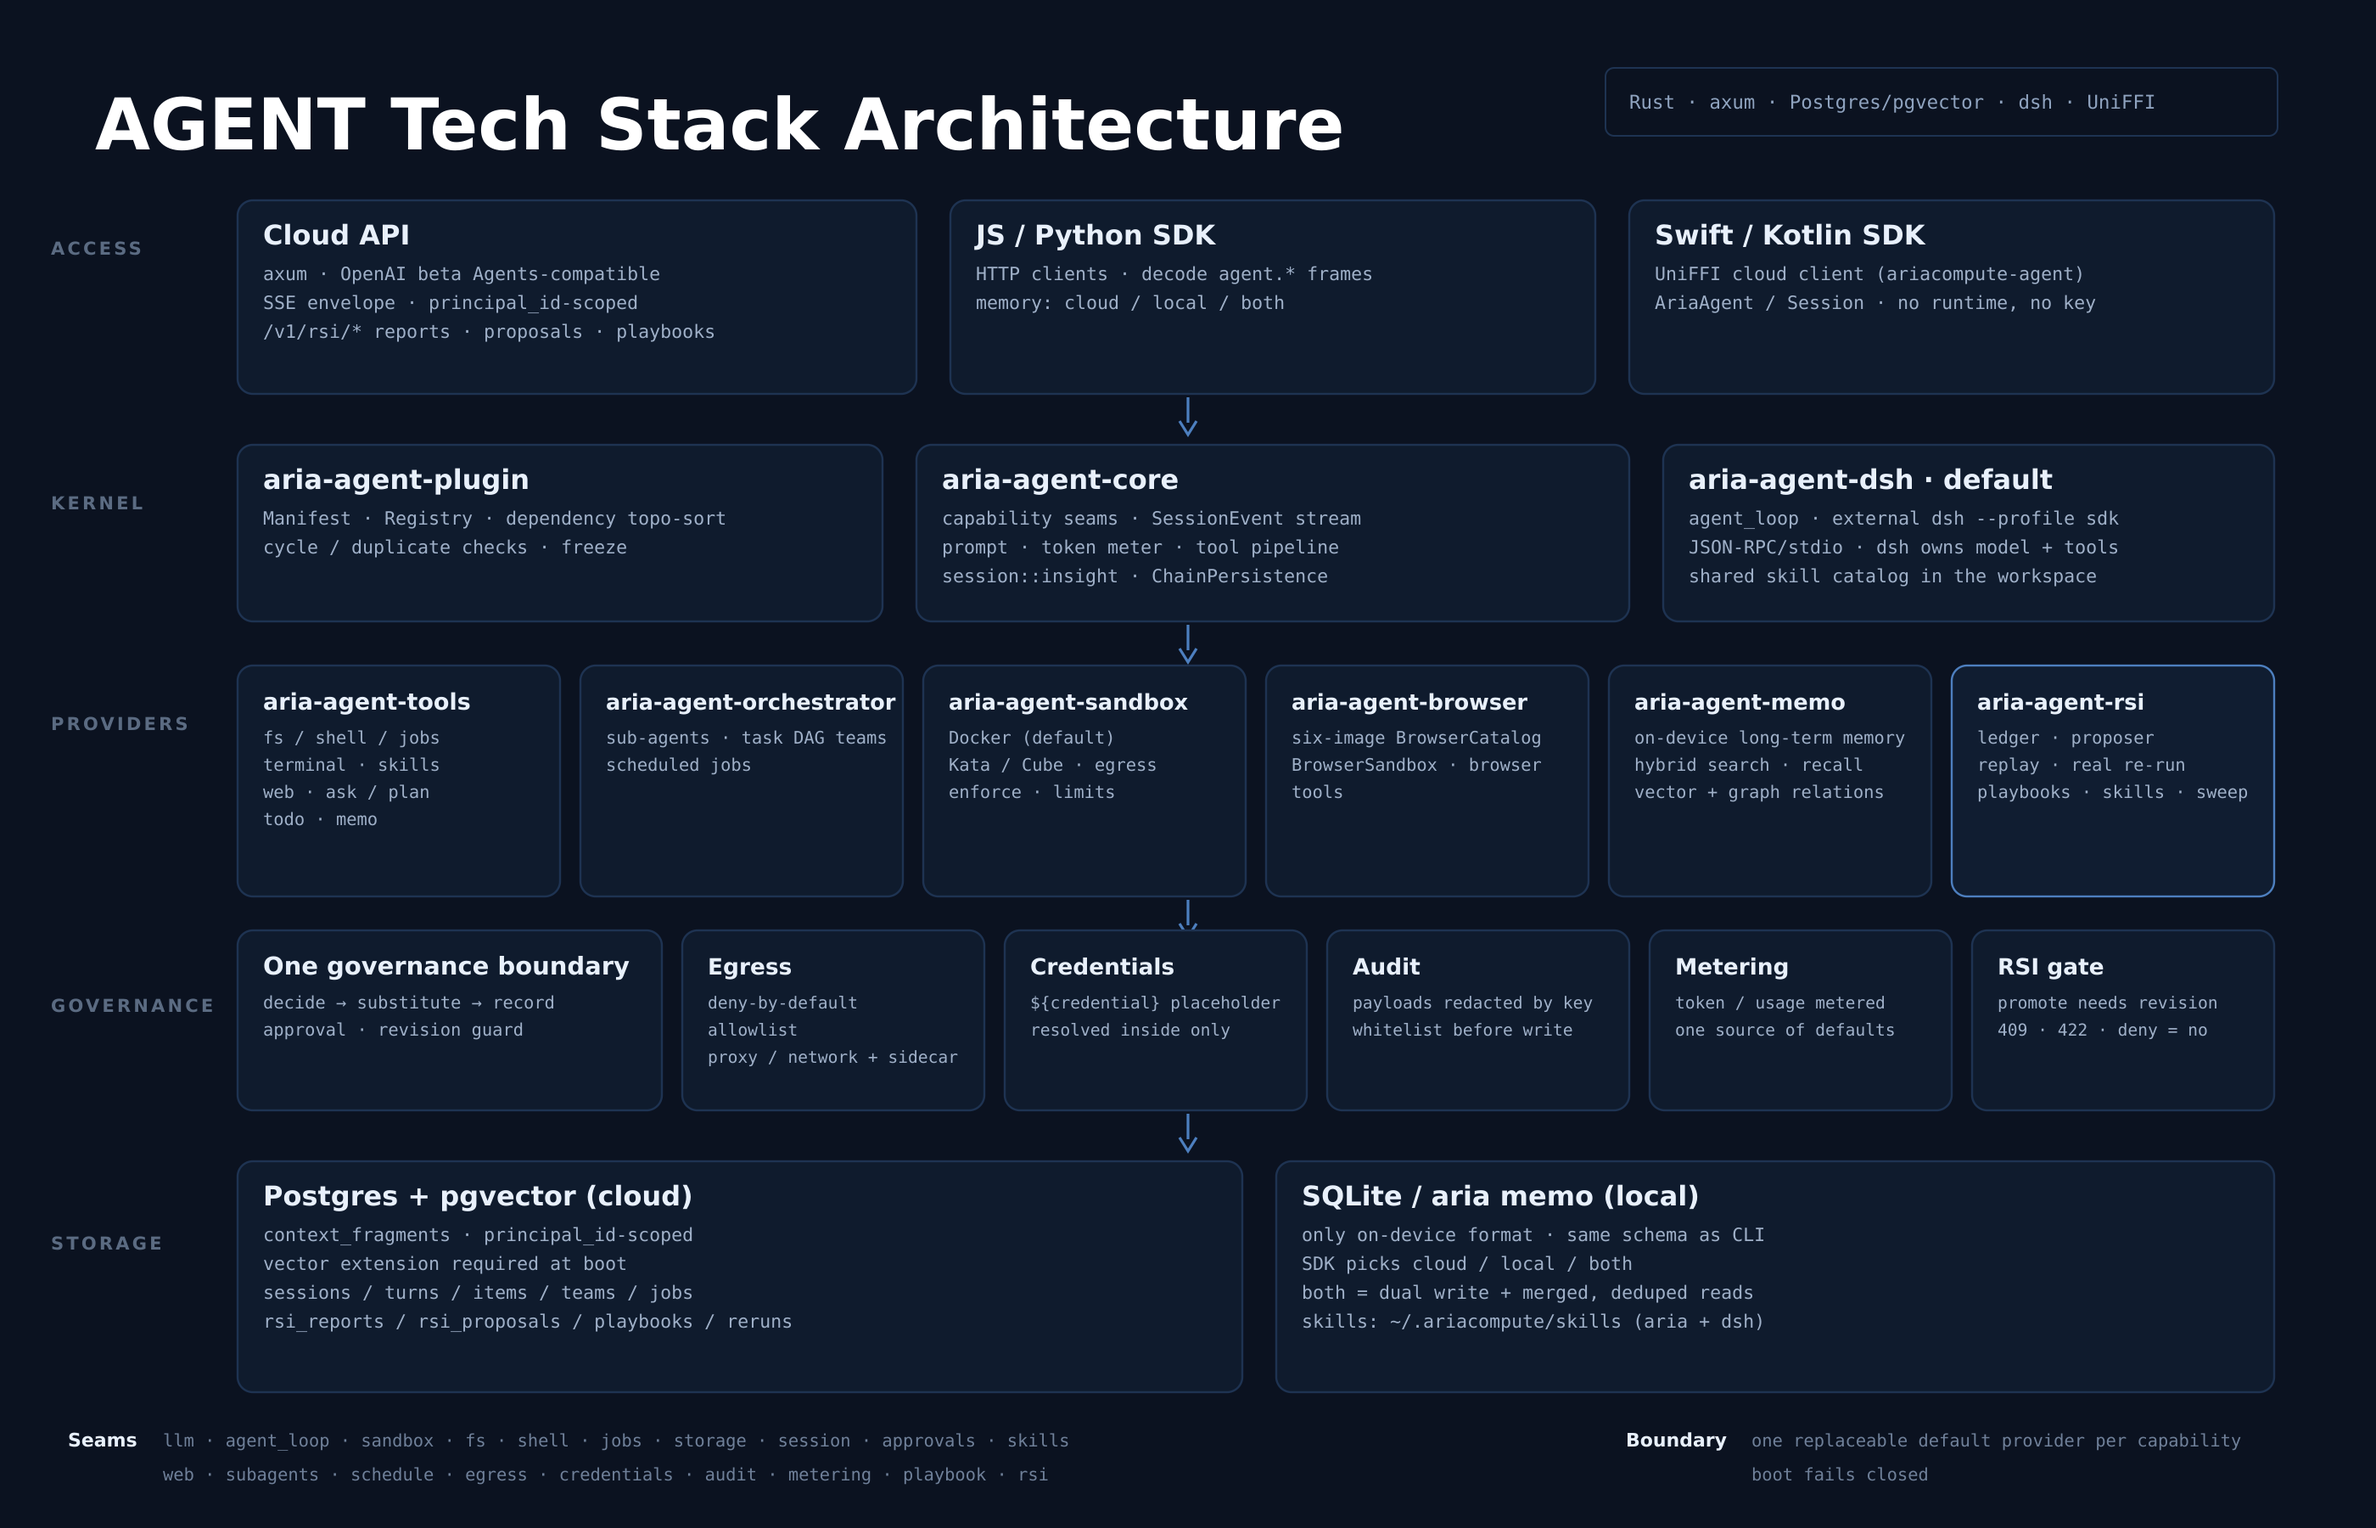
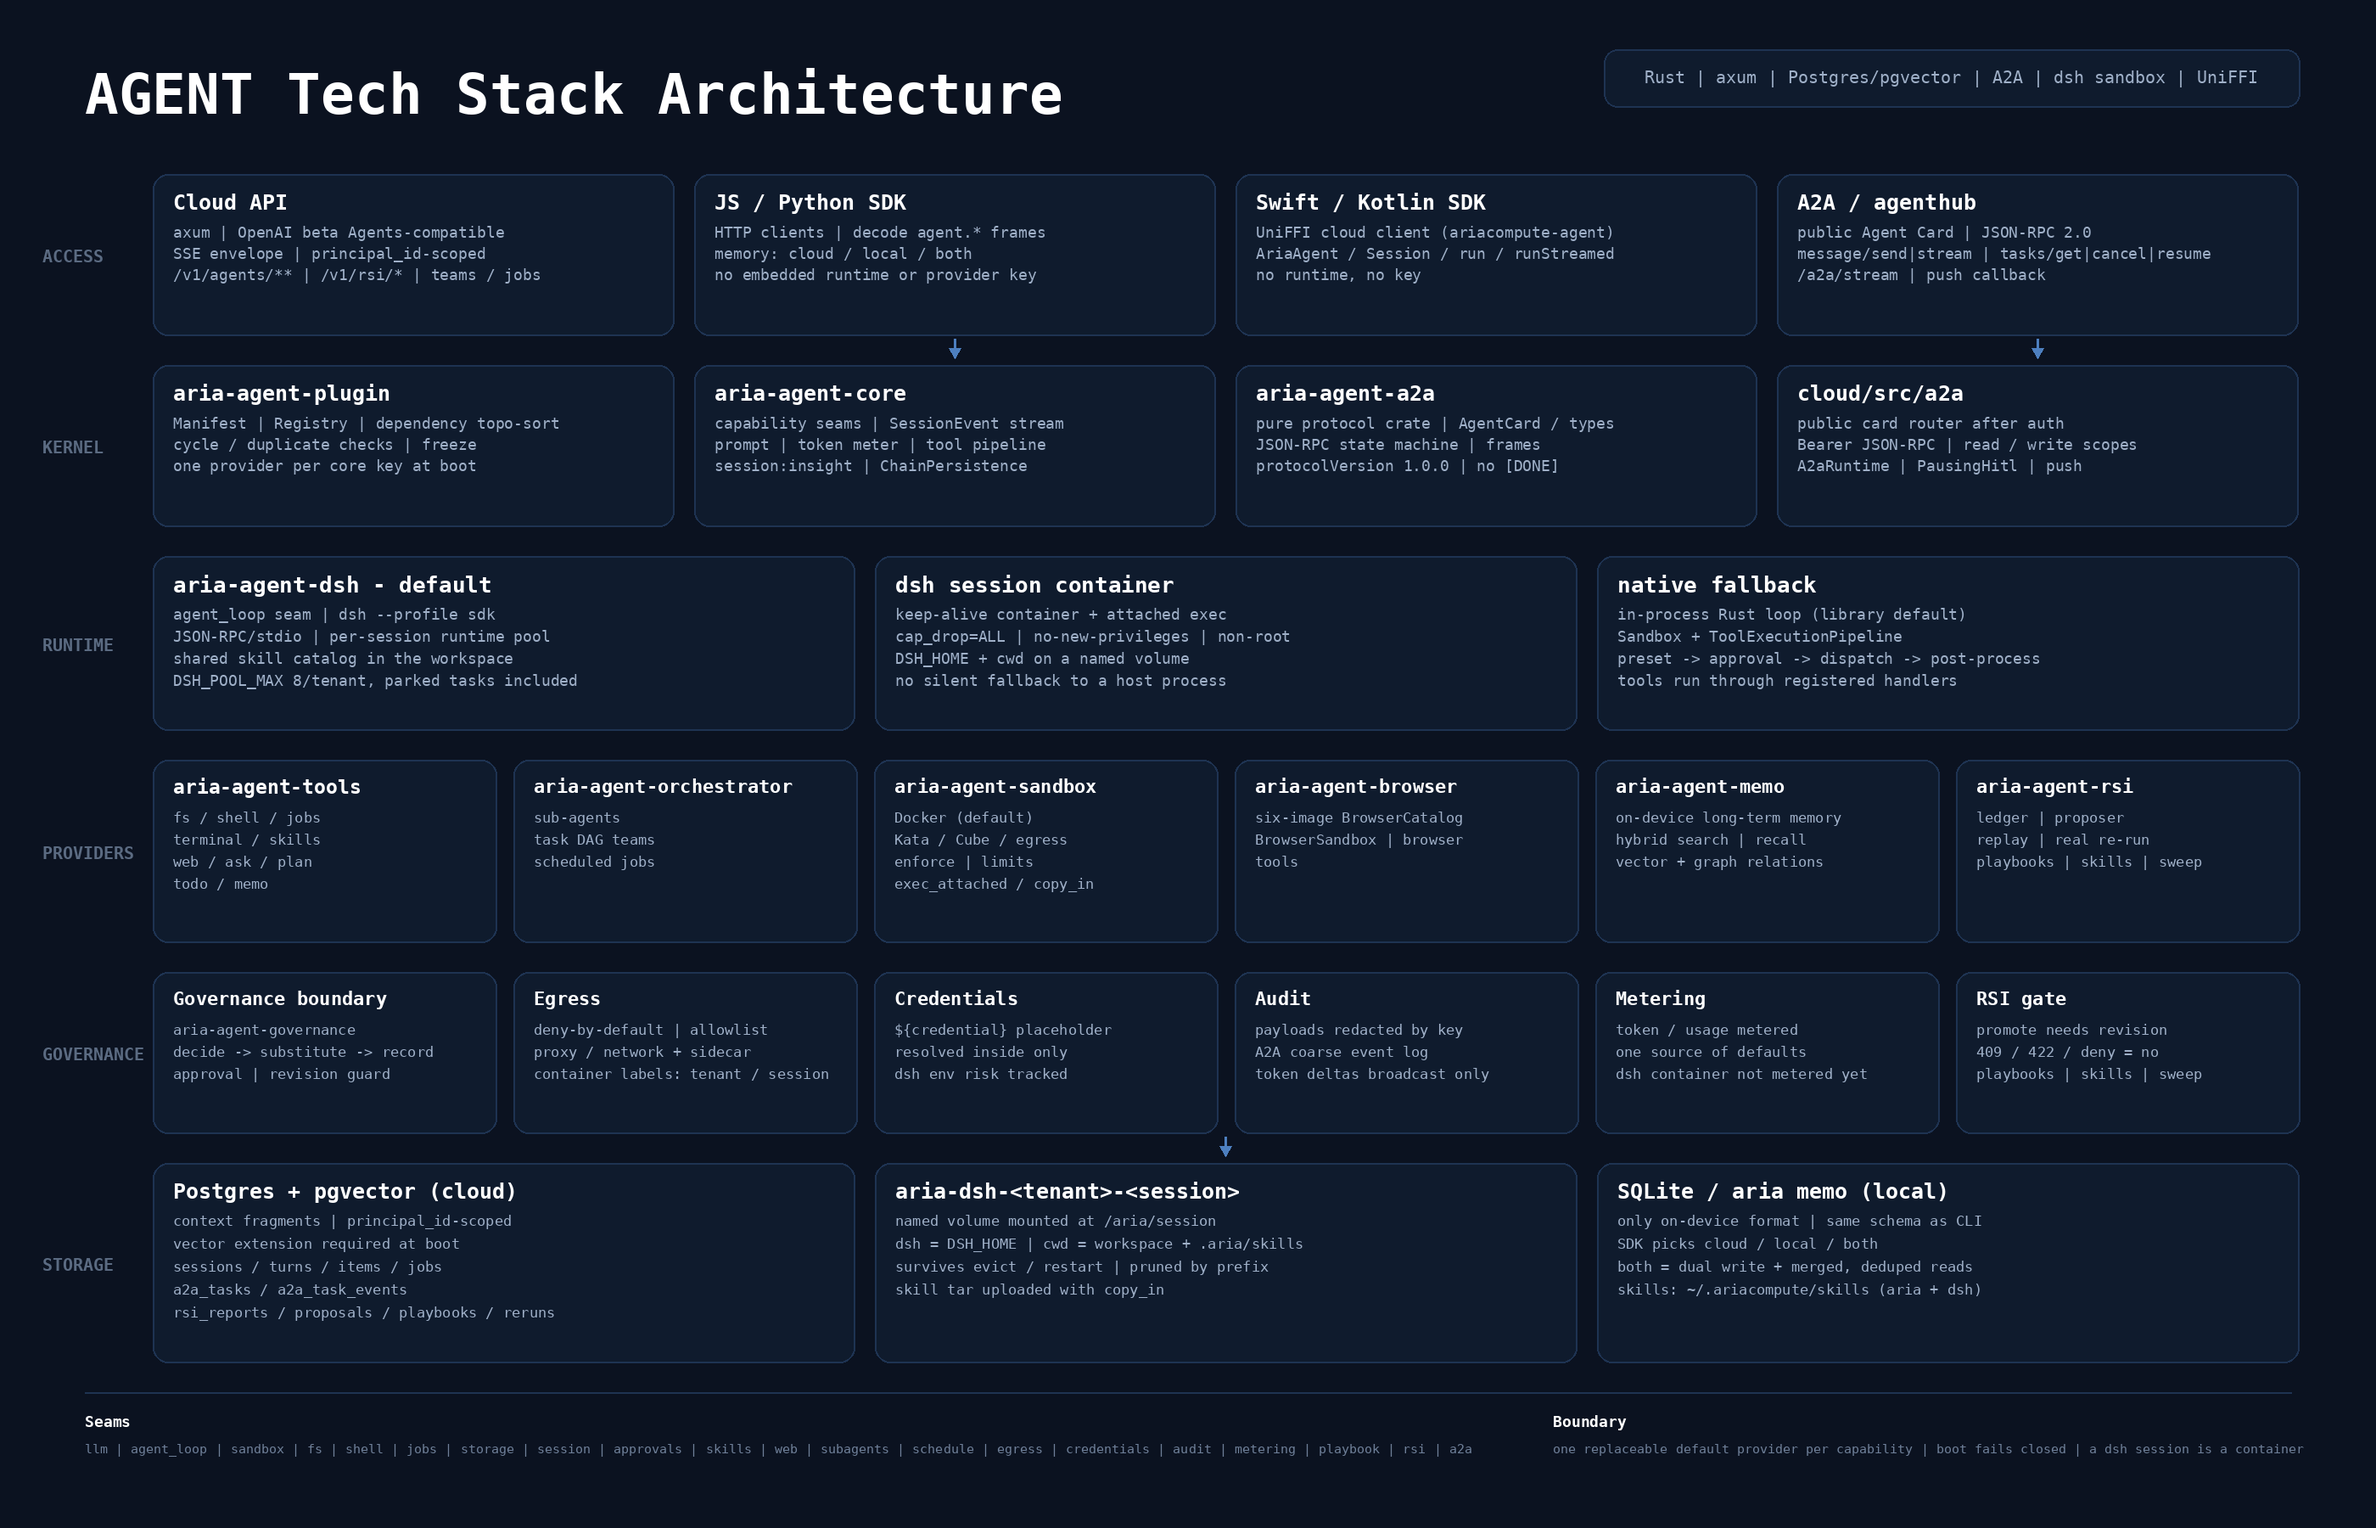
docs(readme): keep the two languages in step and index ADR-0028

diff --git a/README.md b/README.md
@@ -356,7 +356,8 @@ BASE_URL=http://localhost:3000 bash scripts/test-api.sh
 
 The script asserts status codes + key JSON fields across every route (agents,
 sessions, memory, relations, subagents, api-keys, the model-backed `/events`
-and `/events/stream` endpoints, and the recognised-but-501 stubs), prints
+and `/events/stream` endpoints, and the recognised-but-unimplemented `501`
+stubs), prints
 `TOTAL / PASS / FAIL / SKIP`, and exits with the failure count. The single-agent
 subagent-id route is asserted as `404`, not skipped. `/events` and
 `/events/stream` run by default (a configured model gateway is required);
@@ -544,7 +545,8 @@ Anthropic `redacted_thinking` block in the first turn, persists it, then throws
 `UNSUPPORTED_CONTENT` when replaying history. The proxy strips that block from
 request bodies and from JSON/SSE responses (renumbering content-block indices),
 so dsh never sees it. `thinking` blocks are deliberately **kept** — DeepSeek's
-Anthropic-compatible layer requires them to be passed back — which makes thinking
+Anthropic-compatible layer requires them to be passed back in thinking mode, and
+stripping them would turn that error into a `400` — which makes thinking
 display-only and never replayed, the same trade-off OpenCode makes. Set
 `DSH_THINKING_FILTER=disable` only for a dsh build whose adapter handles redacted
 thinking.
@@ -1454,6 +1456,7 @@ Detailed design records live under [`docs/adr/`](./docs/adr), written in English
 | [Network enforcement](./docs/adr/0024-network-enforcement-sidecar.md) | Internal network + secretless egress proxy |
 | [Recursive self-improvement](./docs/adr/0026-recursive-self-improvement.md) | Ledger diagnosis, deterministic proposals, replay validation, revision-guarded playbooks, receipted real re-run |
 | [dsh sandbox runtime](./docs/adr/0027-dsh-sandbox-runtime.md) | Containerised harness: keep-alive + attached exec, named-volume session workspace, fail-closed preflight |
+| [A2A server](./docs/adr/0028-a2a-server.md) | The cloud as an A2A remote agent: public cards, JSON-RPC, SSE replay, cancel evicting the runtime |
 
 <div align="right">
 

diff --git a/README_cn.md b/README_cn.md
@@ -342,7 +342,7 @@ bash scripts/test-api.sh --base-url http://localhost:3000
 BASE_URL=http://localhost:3000 bash scripts/test-api.sh
 ```
 
-脚本会对每条路由（agents、sessions、memory、relations、subagents、api-keys、模型驱动的 `/events` 与 `/events/stream`，以及已识别但未实现的 501 stub）断言状态码与关键 JSON 字段，打印 `TOTAL / PASS / FAIL / SKIP`，并以失败数作为退出码。单 agent 运行时的 subagent 子资源路由按 `404` 断言，不再跳过。`/events` 与 `/events/stream` 默认执行（需已配置模型网关）；`--events-test` / `EVENTS_TEST` 仅为兼容旧调用的空操作。
+脚本会对每条路由（agents、sessions、memory、relations、subagents、api-keys、模型驱动的 `/events` 与 `/events/stream`，以及已识别但未实现的 `501` stub）断言状态码与关键 JSON 字段，打印 `TOTAL / PASS / FAIL / SKIP`，并以失败数作为退出码。单 agent 运行时的 subagent 子资源路由按 `404` 断言，不再跳过。`/events` 与 `/events/stream` 默认执行（需已配置模型网关）；`--events-test` / `EVENTS_TEST` 仅为兼容旧调用的空操作。
 
 云端服务会等待 Postgres 健康后再启动；表结构（`agents` / `runs`）在启动时由
 `ensure_schema` 自动创建，无需初始化脚本。API 可通过**任一**入口访问：
@@ -1346,6 +1346,7 @@ docker compose up
 | [网络强制](./docs/adr/0024-network-enforcement-sidecar.md) | internal 网络 + 无密钥出站代理 |
 | [递归自我改进](./docs/adr/0026-recursive-self-improvement.md) | 账本诊断、确定性提案、重放验证、带版本号的手册、有回执的真实重跑 |
 | [dsh 沙箱运行时](./docs/adr/0027-dsh-sandbox-runtime.md) | 容器化 harness：keep-alive + attach exec、命名卷会话工作区、失败即失败的 preflight |
+| [A2A 服务端](./docs/adr/0028-a2a-server.md) | 云端作为 A2A 远端 agent：公开卡、JSON-RPC、SSE 重放、取消时驱逐运行时 |
 
 <div align="right">
 
